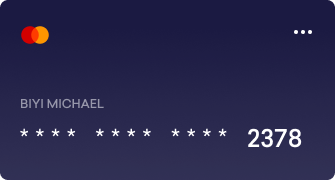
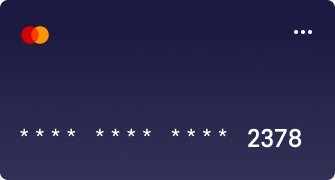
Meal Selection updated
- updated credit card image
- changed snacks into drinks and add 4 more drinks
- confirm booking text changed to green instead of blue

Changed region(s): [[0.0597, 0.5278, 0.3284, 0.6111]]

diff --git a/FlytDream/app/src/main/java/com/example/flytdream/MealSelectionFragment.java b/FlytDream/app/src/main/java/com/example/flytdream/MealSelectionFragment.java
@@ -30,18 +30,16 @@ import java.util.ArrayList;
 public class MealSelectionFragment extends Fragment {
 
     CoreActivity coreActivity;
-    TextView lunch,breakfast,snack;
+    TextView lunch,breakfast,drinks;
     private int lunchButtonCounter,breakfastButtonCounter,snackButtonCounter;
     ImageButton checkout;
     ViewFlipper viewFlipper;
     LinearLayout eggSalad,grilledSalmon,laksa,friedRice,cereal,sandwich,
                 grilledSalmonLunch,friedRiceLunch,sandwichLunch,
-                laksaBreakfast,sandwichBreakfast,cerealBreakfast,
-                cerealSnack;
+                laksaBreakfast,sandwichBreakfast,cerealBreakfast,pm,oj,coke,fanta;
     private int eggSaladCounter,grilledSalmonCounter,laksaCounter,friedRiceCounter,cerealCounter,sandwichCounter,
             grilledSalmonLunchCounter,friedRiceLunchCounter,sandwichLunchCounter,
-            laksaBreakfastCounter,sandwichBreakfastCounter,cerealBreakfastCounter,
-            cerealSnackCounter;
+            laksaBreakfastCounter,sandwichBreakfastCounter,cerealBreakfastCounter,pmCounter,ojCounter,cokeCounter,fantaCounter;
     private ArrayList<Meal> meals;
     private Meal meal;
     // TODO: Rename parameter arguments, choose names that match
@@ -93,7 +91,7 @@ public class MealSelectionFragment extends Fragment {
         coreActivity = (CoreActivity) getActivity();
         lunch = view.findViewById(R.id.lunch);
         breakfast = view.findViewById(R.id.breakfast);
-        snack = view.findViewById(R.id.snack);
+        drinks = view.findViewById(R.id.drinks);
         viewFlipper = view.findViewById(R.id.viewFlipper);
         checkout = view.findViewById(R.id.checkout_button);
         eggSalad = view.findViewById(R.id.egg_salad);
@@ -108,12 +106,15 @@ public class MealSelectionFragment extends Fragment {
         laksaBreakfast = view.findViewById(R.id.laksa_breakfast);
         sandwichBreakfast = view.findViewById(R.id.sandwich_breakfast);
         cerealBreakfast = view.findViewById(R.id.cereal_breakfast);
-        cerealSnack = view.findViewById(R.id.cereal_snack);
+        pm = view.findViewById(R.id.pink_lemonade);
+        oj = view.findViewById(R.id.orange_juice);
+        coke = view.findViewById(R.id.coke_can);
+        fanta = view.findViewById(R.id.fanta_can);
         meals = new ArrayList<Meal>();
 
         lunch.setOnClickListener(clickListener);
         breakfast.setOnClickListener(clickListener);
-        snack.setOnClickListener(clickListener);
+        drinks.setOnClickListener(clickListener);
         eggSalad.setOnClickListener(clickListener1);
         grilledSalmon.setOnClickListener(clickListener1);
         laksa.setOnClickListener(clickListener1);
@@ -126,7 +127,10 @@ public class MealSelectionFragment extends Fragment {
         laksaBreakfast.setOnClickListener(clickListener1);
         sandwichBreakfast.setOnClickListener(clickListener1);
         cerealBreakfast.setOnClickListener(clickListener1);
-        cerealSnack.setOnClickListener(clickListener1);
+        pm.setOnClickListener(clickListener1);
+        oj.setOnClickListener(clickListener1);
+        coke.setOnClickListener(clickListener1);
+        fanta.setOnClickListener(clickListener1);
 
         checkout.setOnClickListener(clickListener);
 
@@ -222,14 +226,12 @@ public class MealSelectionFragment extends Fragment {
                     sandwichLunch.setBackgroundResource(R.drawable.meal_shape);
                     sandwichBreakfast.setBackgroundResource(R.drawable.meal_shape);
                 }
-            } else if ((view.getId() == R.id.cereal) || (view.getId() == R.id.cereal_breakfast) || (view.getId()==R.id.cereal_snack)) {
+            } else if ((view.getId() == R.id.cereal) || (view.getId() == R.id.cereal_breakfast)) {
                 cerealCounter++;
                 cerealBreakfastCounter++;
-                cerealSnackCounter++;
-                if ((cerealCounter % 2 != 0) || (cerealBreakfastCounter % 2 != 0) || (cerealSnackCounter % 2 != 0)) {
+                if ((cerealCounter % 2 != 0) || (cerealBreakfastCounter % 2 != 0)) {
                     cereal.setBackgroundResource(R.drawable.meal_shape_selected);
                     cerealBreakfast.setBackgroundResource(R.drawable.meal_shape_selected);
-                    cerealSnack.setBackgroundResource(R.drawable.meal_shape_selected);
                     meal = new Meal("Cereal", 10.0, 1);
                     meals.add(meal);
                 } else {
@@ -240,7 +242,62 @@ public class MealSelectionFragment extends Fragment {
                     }
                     cereal.setBackgroundResource(R.drawable.meal_shape);
                     cerealBreakfast.setBackgroundResource(R.drawable.meal_shape);
-                    cerealSnack.setBackgroundResource(R.drawable.meal_shape);
+                }
+            } else if ((view.getId() == R.id.pink_lemonade)) {
+                pmCounter++;
+                if ((pmCounter % 2 != 0)) {
+                    pm.setBackgroundResource(R.drawable.meal_shape_selected);
+                    meal = new Meal("Pink Lemonade", 7.0, 1);
+                    meals.add(meal);
+                } else {
+                    for (Meal meal : meals) {
+                        if (meal.getName() == "Pink Lemonade") {
+                            meals.remove(meal);
+                        }
+                    }
+                    pm.setBackgroundResource(R.drawable.meal_shape);
+                }
+            } else if ((view.getId() == R.id.orange_juice)) {
+                ojCounter++;
+                if ((ojCounter % 2 != 0)) {
+                    oj.setBackgroundResource(R.drawable.meal_shape_selected);
+                    meal = new Meal("Orange Juice", 6.0, 1);
+                    meals.add(meal);
+                } else {
+                    for (Meal meal : meals) {
+                        if (meal.getName() == "Orange Juice") {
+                            meals.remove(meal);
+                        }
+                    }
+                    oj.setBackgroundResource(R.drawable.meal_shape);
+                }
+            } else if ((view.getId() == R.id.coke_can)) {
+                cokeCounter++;
+                if ((cokeCounter % 2 != 0)) {
+                    coke.setBackgroundResource(R.drawable.meal_shape_selected);
+                    meal = new Meal("Coke", 5.0, 1);
+                    meals.add(meal);
+                } else {
+                    for (Meal meal : meals) {
+                        if (meal.getName() == "Coke") {
+                            meals.remove(meal);
+                        }
+                    }
+                    coke.setBackgroundResource(R.drawable.meal_shape);
+                }
+            } else if ((view.getId() == R.id.fanta_can)) {
+                fantaCounter++;
+                if ((fantaCounter % 2 != 0)) {
+                    fanta.setBackgroundResource(R.drawable.meal_shape_selected);
+                    meal = new Meal("Fanta", 5.0, 1);
+                    meals.add(meal);
+                } else {
+                    for (Meal meal : meals) {
+                        if (meal.getName() == "Fanta") {
+                            meals.remove(meal);
+                        }
+                    }
+                    fanta.setBackgroundResource(R.drawable.meal_shape);
                 }
             }
         }
@@ -262,9 +319,9 @@ public class MealSelectionFragment extends Fragment {
                     breakfast.setTypeface(null, Typeface.NORMAL);
                     breakfast.setTextColor(Color.parseColor("#000000"));
 
-                    snack.setBackgroundResource(R.drawable.meal_button_shape);
-                    snack.setTypeface(null, Typeface.NORMAL);
-                    snack.setTextColor(Color.parseColor("#000000"));
+                    drinks.setBackgroundResource(R.drawable.meal_button_shape);
+                    drinks.setTypeface(null, Typeface.NORMAL);
+                    drinks.setTextColor(Color.parseColor("#000000"));
 
                     viewFlipper.setDisplayedChild(1);
                 } else {
@@ -287,9 +344,9 @@ public class MealSelectionFragment extends Fragment {
                     lunch.setTypeface(null, Typeface.NORMAL);
                     lunch.setTextColor(Color.parseColor("#000000"));
 
-                    snack.setBackgroundResource(R.drawable.meal_button_shape);
-                    snack.setTypeface(null, Typeface.NORMAL);
-                    snack.setTextColor(Color.parseColor("#000000"));
+                    drinks.setBackgroundResource(R.drawable.meal_button_shape);
+                    drinks.setTypeface(null, Typeface.NORMAL);
+                    drinks.setTextColor(Color.parseColor("#000000"));
 
                     viewFlipper.setDisplayedChild(2);
                 } else {
@@ -299,14 +356,14 @@ public class MealSelectionFragment extends Fragment {
 
                     viewFlipper.setDisplayedChild(0);
                 }
-            } else if(view.getId() == R.id.snack){
+            } else if(view.getId() == R.id.drinks){
                 snackButtonCounter++;
                 breakfastButtonCounter = 0;
                 lunchButtonCounter = 0;
                 if(snackButtonCounter%2 != 0){
-                    snack.setBackgroundResource(R.drawable.meal_button_shape_selected);
-                    snack.setTypeface(null, Typeface.BOLD);
-                    snack.setTextColor(Color.parseColor("#FFFFFF"));
+                    drinks.setBackgroundResource(R.drawable.meal_button_shape_selected);
+                    drinks.setTypeface(null, Typeface.BOLD);
+                    drinks.setTextColor(Color.parseColor("#FFFFFF"));
 
                     breakfast.setBackgroundResource(R.drawable.meal_button_shape);
                     breakfast.setTypeface(null, Typeface.NORMAL);
@@ -318,9 +375,9 @@ public class MealSelectionFragment extends Fragment {
 
                     viewFlipper.setDisplayedChild(3);
                 } else {
-                    snack.setBackgroundResource(R.drawable.meal_button_shape);
-                    snack.setTypeface(null, Typeface.NORMAL);
-                    snack.setTextColor(Color.parseColor("#000000"));
+                    drinks.setBackgroundResource(R.drawable.meal_button_shape);
+                    drinks.setTypeface(null, Typeface.NORMAL);
+                    drinks.setTextColor(Color.parseColor("#000000"));
 
                     viewFlipper.setDisplayedChild(0);
                 }
